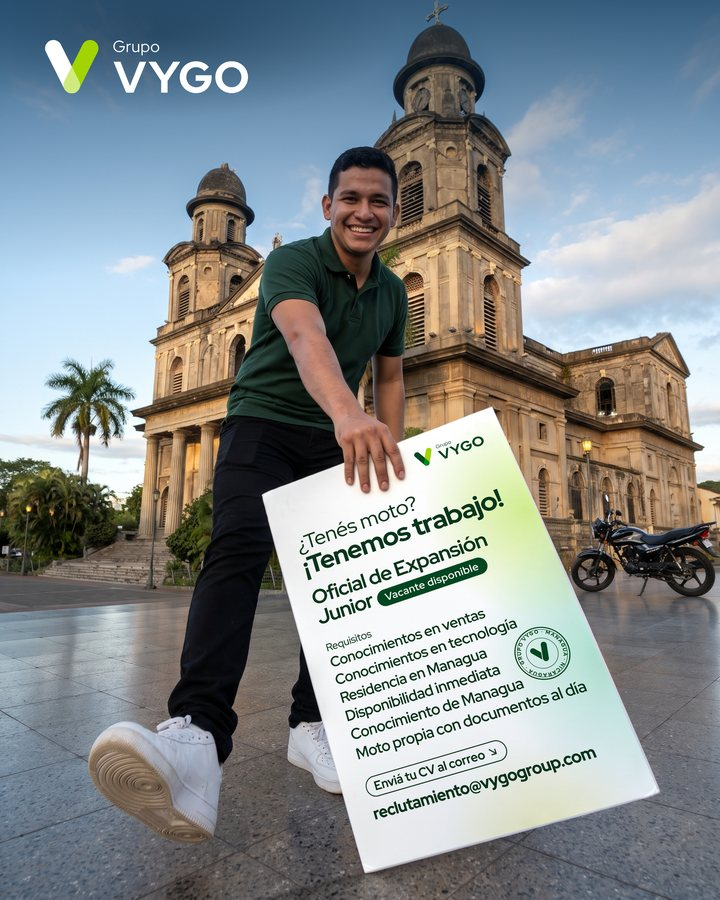
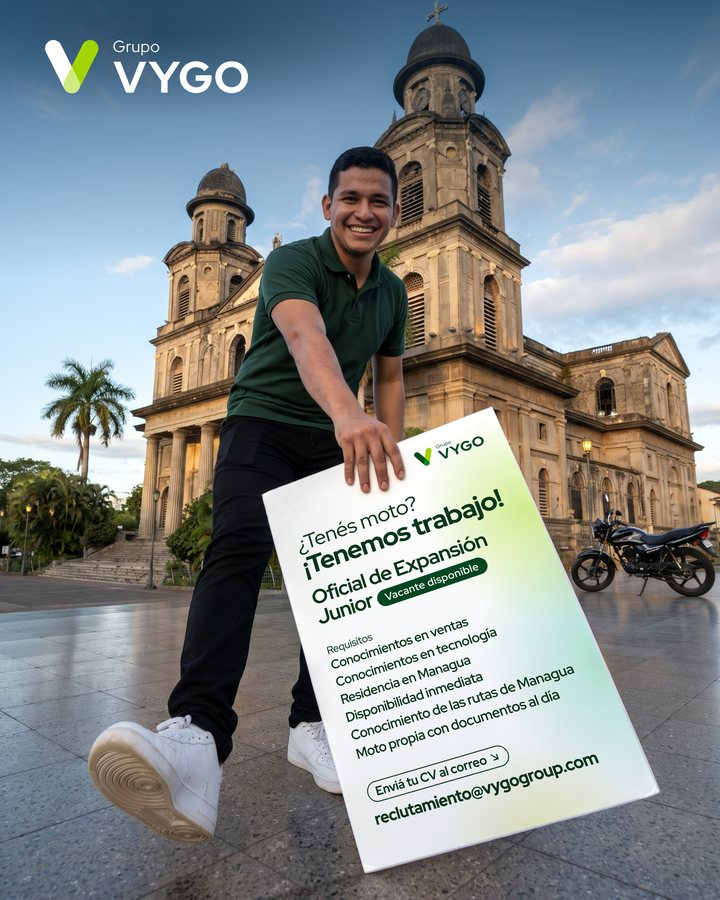
Vacante: conocimiento de las rutas de Managua y anuncio sin sello

Changed region(s): [[0.4583, 0.6844, 0.825, 0.9333]]

diff --git a/empleo/oficial-de-expansion-junior/index.html b/empleo/oficial-de-expansion-junior/index.html
@@ -33,7 +33,7 @@
   "@context": "https://schema.org",
   "@type": "JobPosting",
   "title": "Oficial de Expansión Junior",
-  "description": "<p>Grupo VYGO busca un Oficial de Expansión Junior en Managua, con inicio inmediato.</p><p>El puesto pide conocimientos en ventas y en tecnología, residencia en Managua, disponibilidad inmediata, conocimiento de Managua y moto propia con documentos al día.</p><p>Para postularte, enviá tu CV a reclutamiento@vygogroup.com con el asunto «Oficial de Expansión Junior». Grupo VYGO no cobra por postularse, por la entrevista ni por ningún paso del proceso.</p>",
+  "description": "<p>Grupo VYGO busca un Oficial de Expansión Junior en Managua, con inicio inmediato.</p><p>El puesto pide conocimientos en ventas y en tecnología, residencia en Managua, disponibilidad inmediata, conocimiento de las rutas de Managua y moto propia con documentos al día.</p><p>Para postularte, enviá tu CV a reclutamiento@vygogroup.com con el asunto «Oficial de Expansión Junior». Grupo VYGO no cobra por postularse, por la entrevista ni por ningún paso del proceso.</p>",
   "url": "https://www.vygogroup.com/empleo/oficial-de-expansion-junior/",
   "datePosted": "2026-11-26",
   "hiringOrganization": { "@type": "Organization", "name": "Grupo VYGO, S.A.", "sameAs": "https://www.vygogroup.com/" },
@@ -103,7 +103,7 @@
             <li><span>02</span>Conocimientos en tecnología</li>
             <li><span>03</span>Residencia en Managua</li>
             <li><span>04</span>Disponibilidad inmediata</li>
-            <li><span>05</span>Conocimiento de Managua</li>
+            <li><span>05</span>Conocimiento de las rutas de Managua</li>
             <li><span>06</span>Moto propia con documentos al día</li>
           </ol>
         </div>
